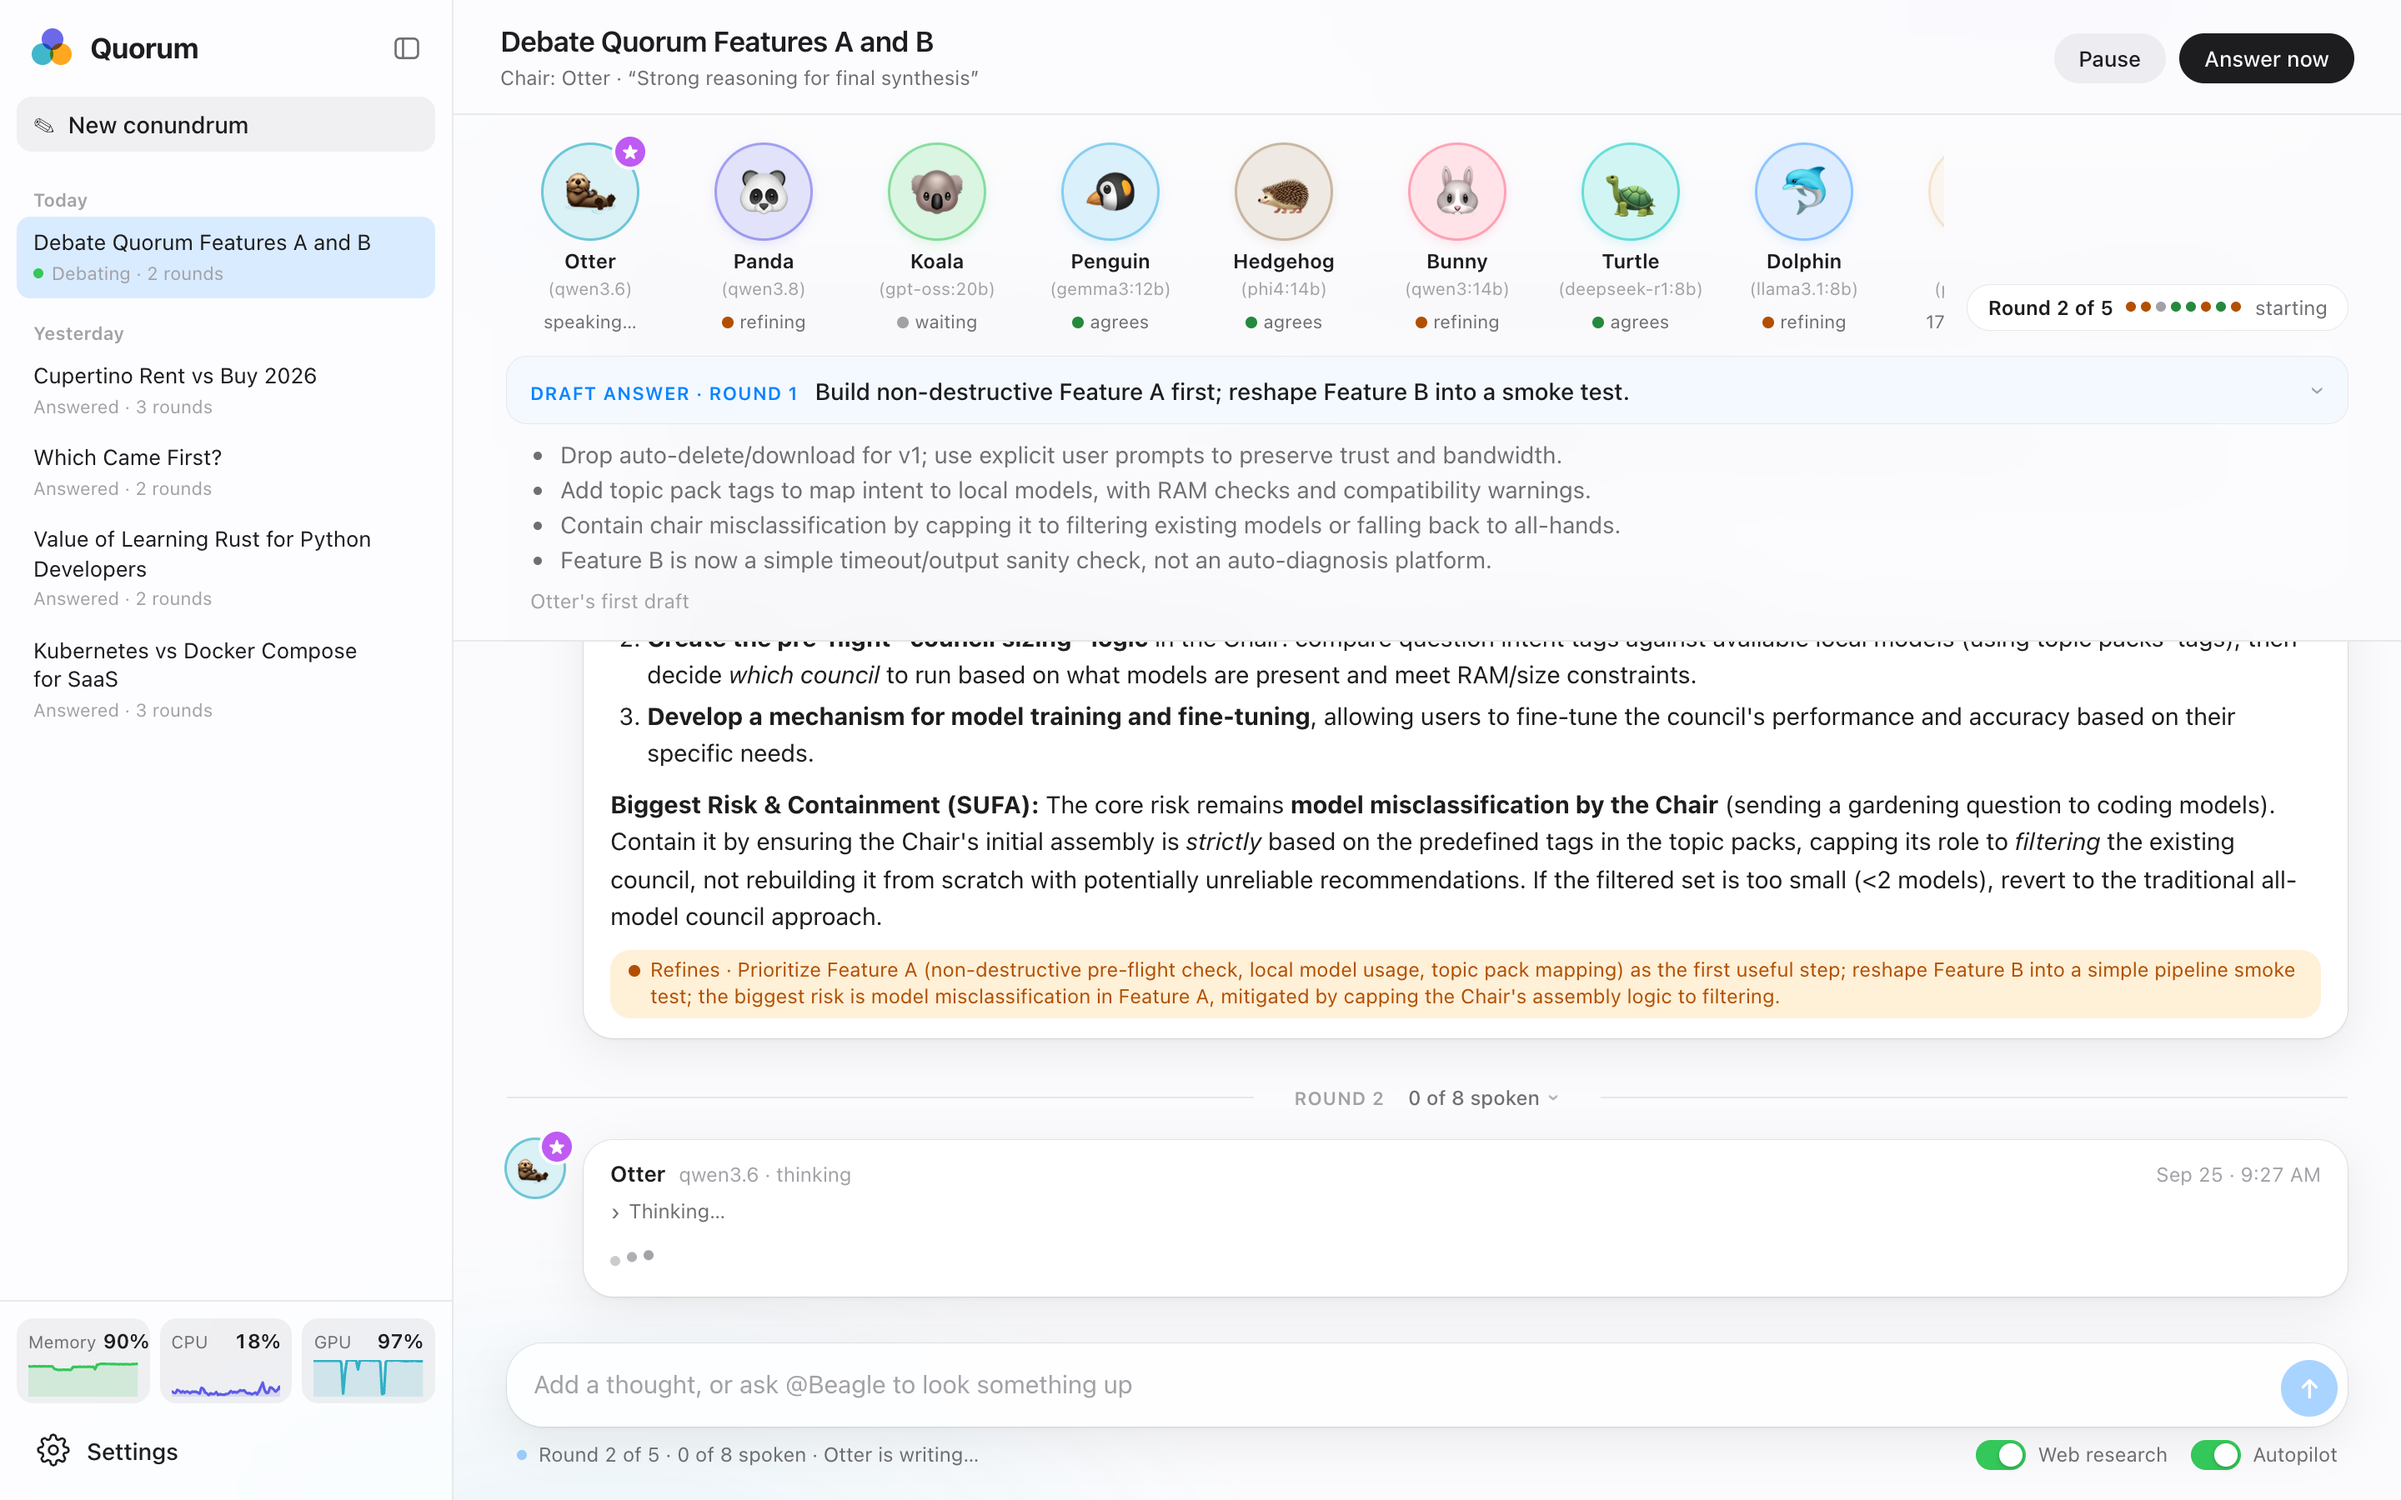
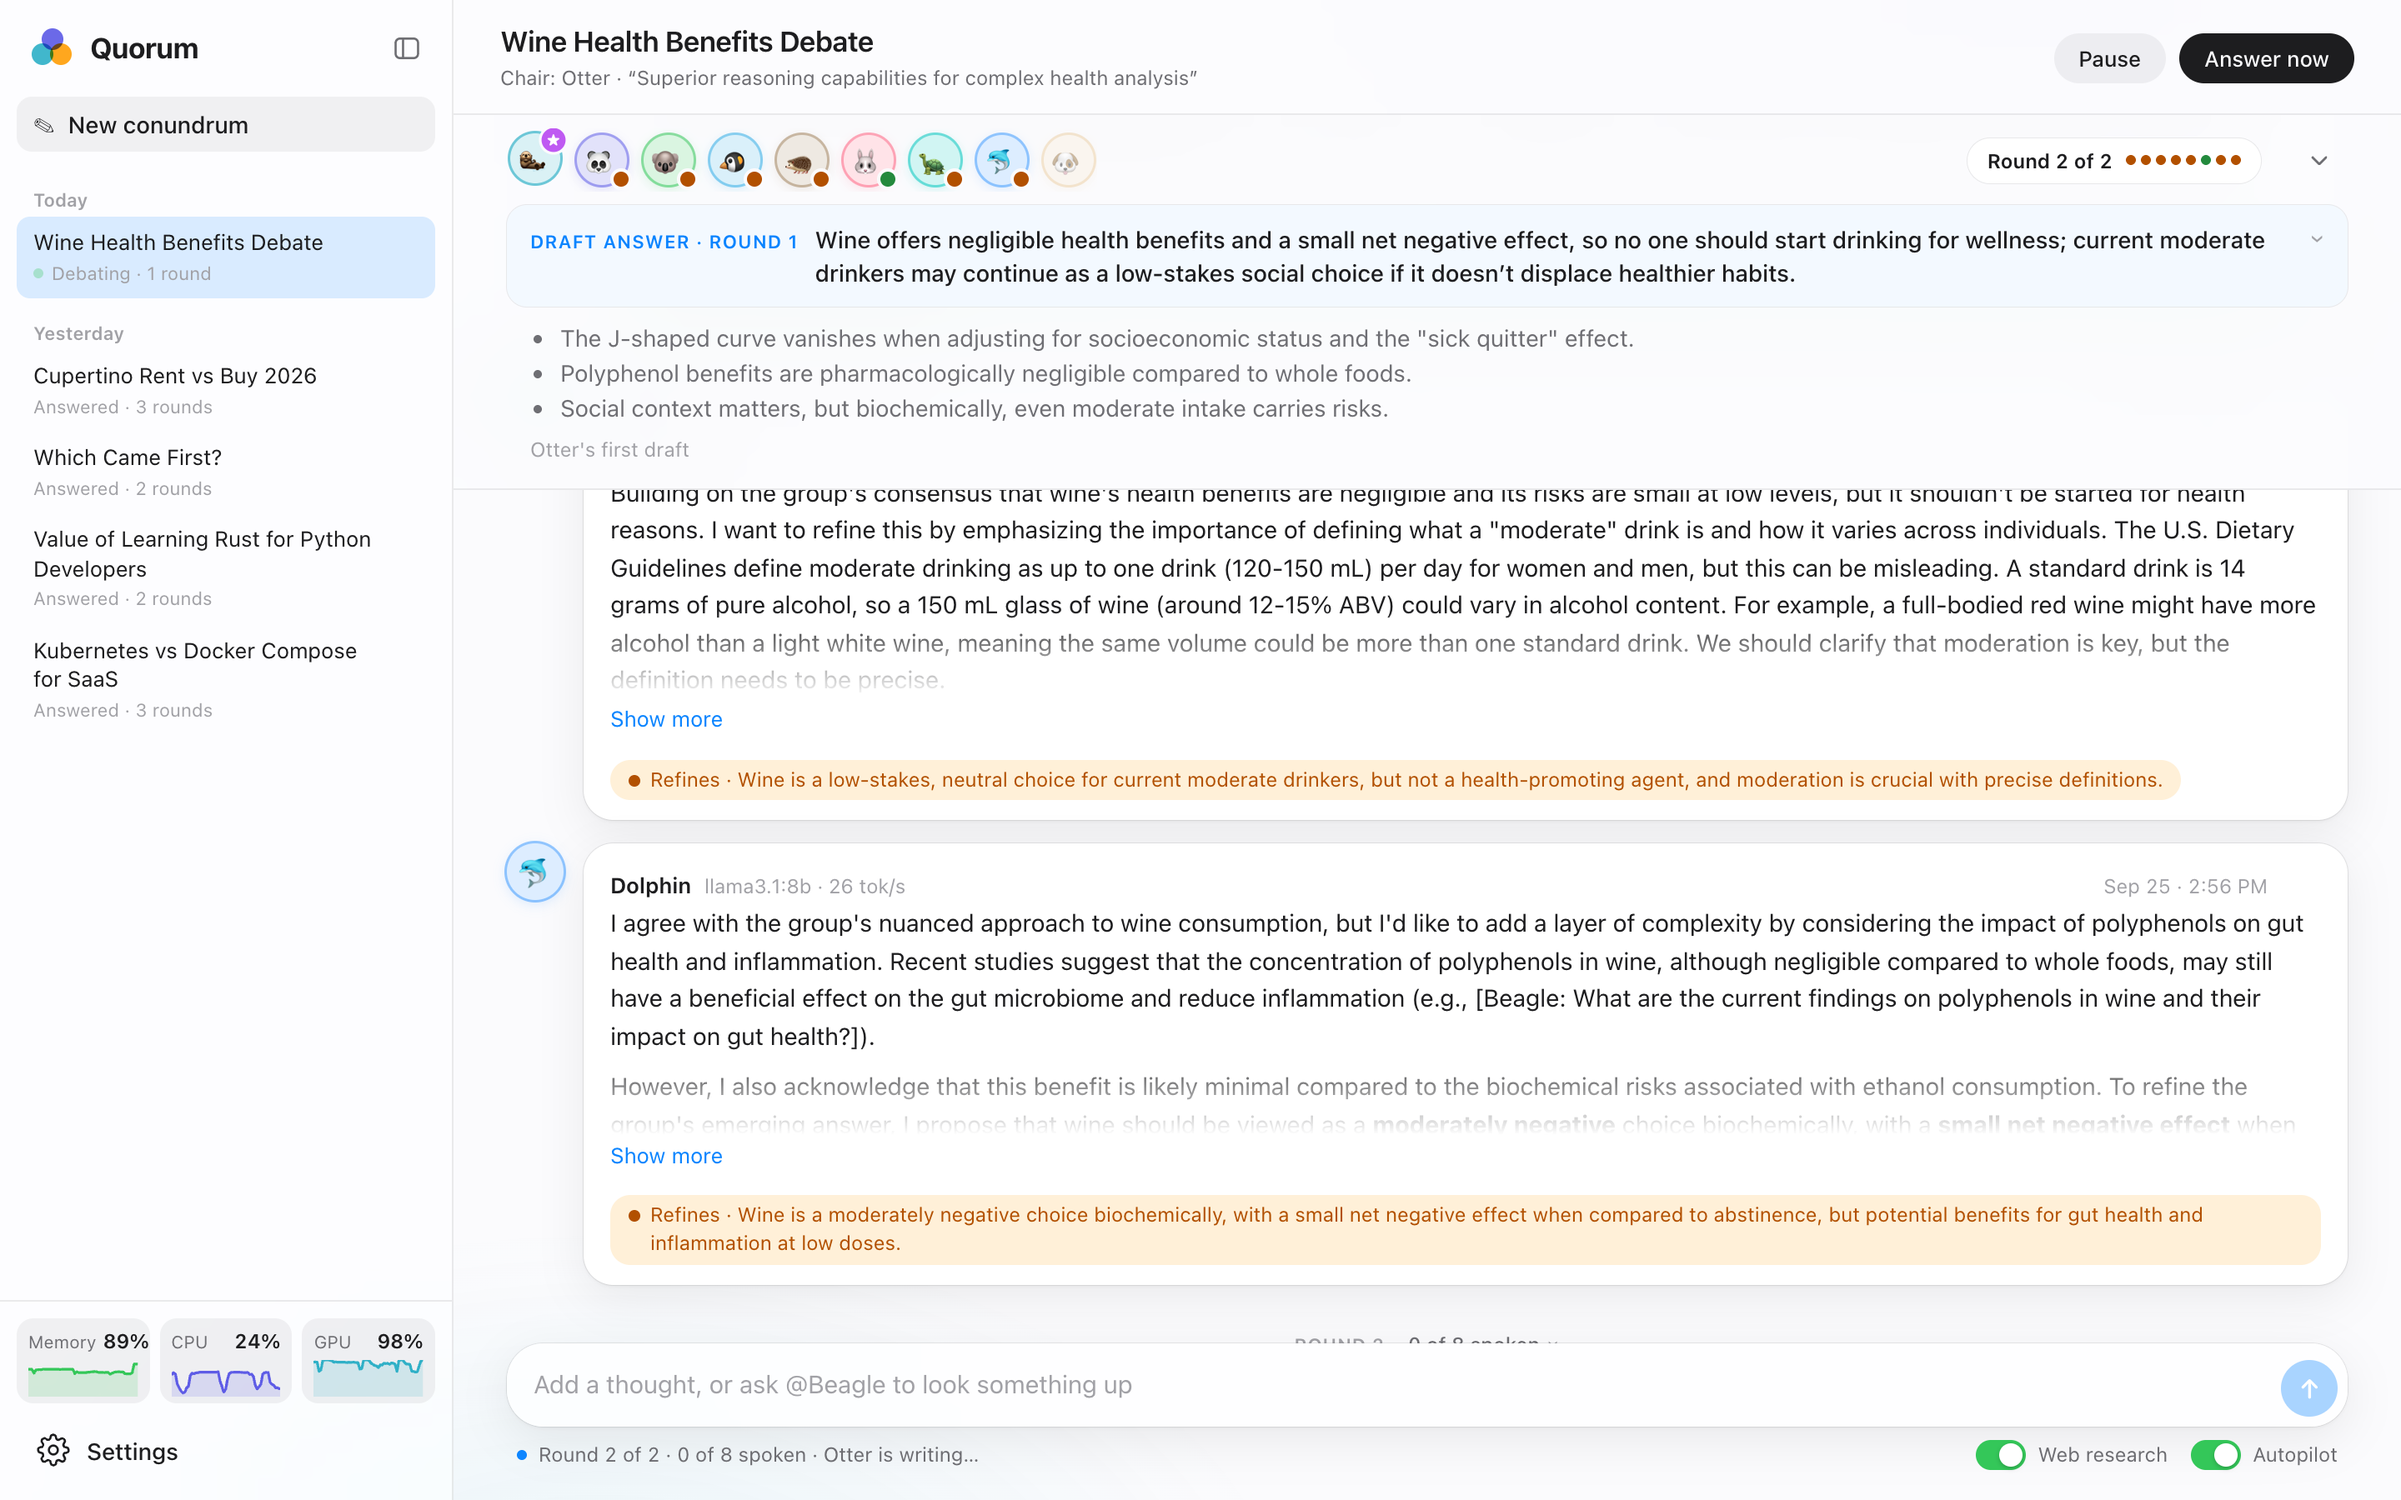
Compact stage, tighter phone header, and folded long messages
- The stage is now one slim row of avatars with stance dots (hover for name, model and
  status); a chevron opens the full view, and the choice is remembered.
- On phones the title and Pause / Answer now share one row.
- Long agent turns fold to their first lines with Show more; the stance and position
  stay visible so a round can be skimmed.

diff --git a/frontend/src/components/DebateView.jsx b/frontend/src/components/DebateView.jsx
@@ -111,12 +111,52 @@ function Thread({ items, seatsById, debate, onIntake }) {
   return out
 }
 
+// The stage's compact view is a per-viewer preference; storage can be unavailable (private windows)
+function useCompactStage() {
+  const [compact, setCompact] = useState(() => {
+    try { return localStorage.getItem('quorum.stage') !== 'full' } catch { return true }
+  })
+  const toggle = () => setCompact((c) => {
+    try { localStorage.setItem('quorum.stage', c ? 'full' : 'compact') } catch { /* keep it for this visit */ }
+    return !c
+  })
+  return [compact, toggle]
+}
+
+function MiniSeats({ seats, stances, speakingSeatIds, debate, beagleBusy, searches }) {
+  return (
+    <div className="mini-seats">
+      {seats.map((seat, i) => {
+        const picking = i === 0 && debate.chair_mode === 'auto' && !debate.chair_handle && debate.status === 'running'
+        const speaking = speakingSeatIds.has(seat.id) || picking
+        const st = stances[i]
+        const status = picking ? 'choosing the chair' : speaking ? 'speaking' : st ? STANCE_LABEL[st] : 'waiting'
+        return (
+          <span className={`mini-seat ${speaking ? 'on' : ''}`} key={seat.id} title={`${seat.handle} · ${modelShort(seat.model)} · ${status}`}>
+            <Orb handle={seat.handle} speaking={speaking} chair={seat.handle === debate.chair_handle} />
+            {st && !speaking && <i className={`mini-st dot ${st.toLowerCase()}`} aria-hidden="true" />}
+          </span>
+        )
+      })}
+      {debate.research_enabled && (
+        <span className={`mini-seat ${beagleBusy ? 'on' : ''}`} title={`${RESEARCHER} · ${modelShort(debate.researcher_model)} · ${beagleBusy ? 'searching' : `${searches} searches`}`}>
+          <Orb handle={RESEARCHER} speaking={beagleBusy} dim={!beagleBusy} />
+        </span>
+      )}
+    </div>
+  )
+}
+
 function Stage({ state, speakingSeatIds, beagleBusy, searches }) {
   const { debate, seats, messages } = state
   const stances = latestStances(messages, debate.topic, seats)
+  const [compact, toggleCompact] = useCompactStage()
   return (
     <div className="stage-wrap">
-    <div className="stage">
+    <div className={`stage ${compact ? 'compact' : ''}`}>
+      {compact ? (
+        <MiniSeats seats={seats} stances={stances} speakingSeatIds={speakingSeatIds} debate={debate} beagleBusy={beagleBusy} searches={searches} />
+      ) : (
       <div className="seats">
         {seats.map((seat, i) => {
           // In automatic mode the first (largest) member picks the chair before round 1
@@ -143,6 +183,7 @@ function Stage({ state, speakingSeatIds, beagleBusy, searches }) {
           </div>
         )}
       </div>
+      )}
       {debate.round > 0 && (() => {
         const done = messages.filter((m) => m.topic === debate.topic && m.round === debate.round && m.author_kind === 'seat' && m.status === 'done')
         const dissent = done.filter((m) => m.stance === 'DISAGREE').map((m) => seats.find((s) => s.id === m.seat_id)?.handle)
@@ -159,6 +200,12 @@ function Stage({ state, speakingSeatIds, beagleBusy, searches }) {
           </button>
         )
       })()}
+      <button className="icon-btn stage-toggle" onClick={toggleCompact} aria-expanded={!compact}
+        aria-label={compact ? 'Show agent details' : 'Compact view'} title={compact ? 'Show agent details' : 'Compact view'}>
+        <svg width="16" height="16" viewBox="0 0 20 20" fill="none" stroke="currentColor" strokeWidth="1.8" aria-hidden="true">
+          <path d={compact ? 'm5 8 5 5 5-5' : 'm5 12 5-5 5 5'} strokeLinecap="round" strokeLinejoin="round" />
+        </svg>
+      </button>
     </div>
       <LivingAnswer drafts={(state.drafts || []).filter((d) => d.topic === debate.topic)} chair={debate.chair_handle} />
     </div>

diff --git a/frontend/src/index.css b/frontend/src/index.css
@@ -533,9 +533,10 @@ details.disclose pre { white-space: pre-wrap; font-family: var(--font); backgrou
   .ask { padding-left: 16px; border-radius: 20px; }
   .ask textarea { font-size: 16px; }
   .suggestions { margin-top: 20px; }
-  .topbar { padding: 10px 14px; flex-wrap: wrap; }
-  .topbar .q-title h2 { font-size: 15px; white-space: normal; display: -webkit-box; -webkit-line-clamp: 2; -webkit-box-orient: vertical; }
-  .topbar .actions { width: 100%; justify-content: flex-end; }
+  .topbar { padding: 8px 12px; gap: 10px; }
+  .topbar .q-title h2 { font-size: 15px; }
+  .topbar .actions { gap: 6px; }
+  .topbar .actions .btn { padding: 6px 11px; font-size: 13px; }
   .stage { padding: 10px 12px 4px; flex-direction: column; align-items: stretch; gap: 6px; }
   .seat { width: 74px; }
   .orb.lg { width: 46px; height: 46px; font-size: 25px; }
@@ -718,3 +719,29 @@ details.disclose pre { white-space: pre-wrap; font-family: var(--font); backgrou
 .pack-suggest { margin-top: 8px; font: 13px/1.5 var(--font); color: var(--text-2); text-align: center; max-width: 560px; animation: fade 0.2s ease; }
 .pack-suggest .progress-line { display: inline-block; vertical-align: middle; margin-left: 8px; }
 .pack-suggest b { color: var(--text); font-weight: 600; }
+
+/* Compact stage: one slim row of avatars (default); the full view shows names, models and status */
+.stage.compact { align-items: center; padding-top: 8px; padding-bottom: 8px; }
+.mini-seats { display: flex; align-items: center; gap: 10px; overflow-x: auto; padding: 4px 2px; scrollbar-width: none; min-width: 0; }
+.mini-seats::-webkit-scrollbar { display: none; }
+.mini-seat { position: relative; flex: none; display: inline-grid; transition: transform 0.2s var(--ease); }
+.mini-seat .orb { width: 30px; height: 30px; font-size: 16px; }
+.mini-seat .orb .crown { transform: scale(0.8); }
+.mini-seat.on { transform: translateY(-1px); }
+.mini-st { position: absolute; right: -1px; bottom: -1px; width: 9px; height: 9px; box-shadow: 0 0 0 2px var(--window); }
+.stage.compact .consensus-pill { margin-bottom: 0; }
+.stage-toggle { flex: none; align-self: center; margin-left: 4px; }
+.stage:not(.compact) .stage-toggle { align-self: flex-start; margin-top: 6px; }
+@media (max-width: 720px) {
+  .stage.compact { flex-direction: row; align-items: center; gap: 8px; padding: 6px 12px; }
+  .stage.compact .consensus-pill { margin: 0 0 0 auto; padding: 5px 10px; }
+  .stage.compact .consensus-pill .cp-dots, .stage.compact .consensus-pill > span:not(.cp-round):not(.cp-dots) { display: none; }
+  .mini-seat .orb { width: 26px; height: 26px; font-size: 14px; }
+  .mini-seats { gap: 7px; }
+}
+
+/* Long agent turns fold to their first lines */
+.folding:not(.open) { max-height: 9.5em; overflow: hidden; position: relative;
+  -webkit-mask-image: linear-gradient(to bottom, #000 60%, transparent); mask-image: linear-gradient(to bottom, #000 60%, transparent); }
+.fold-btn { display: block; margin: 2px 0 6px; font-size: 13px; }
+@media print { .folding:not(.open) { max-height: none; -webkit-mask-image: none; mask-image: none; } .fold-btn { display: none; } }

diff --git a/frontend/src/components/Message.jsx b/frontend/src/components/Message.jsx
@@ -95,6 +95,22 @@ function Thinking({ text, label = 'Thinking', live }) {
   )
 }
 
+// Long finished turns fold to their first lines so the debate stays scannable; the stance line below stays visible
+const FOLD_WORDS = 110
+function Folding({ text, fold, children }) {
+  const [open, setOpen] = useState(false)
+  const long = fold && text.split(/\s+/).length > FOLD_WORDS
+  if (!long) return children
+  return (
+    <>
+      <div className={`folding ${open ? 'open' : ''}`}>{children}</div>
+      <button className="linkish fold-btn" onClick={() => setOpen(!open)} aria-expanded={open}>
+        {open ? 'Show less' : 'Show more'}
+      </button>
+    </>
+  )
+}
+
 export function AgentMessage({ msg, seat, isChair }) {
   const streaming = msg.status === 'streaming'
   const body = visibleBody(msg)
@@ -108,7 +124,7 @@ export function AgentMessage({ msg, seat, isChair }) {
       <div className="bubble">
         <div className="who">{seat?.handle}<span>{meta.filter(Boolean).join(' · ')}</span><span className="ts">{formatTime(msg.created_at)}</span>{!streaming && <CopyButton text={body} />}</div>
         <Thinking text={msg.thinking} live={streaming && !body} />
-        {body ? <Markdown>{body}</Markdown>
+        {body ? <Folding text={body} fold={!streaming}><Markdown>{body}</Markdown></Folding>
           : streaming ? <Typing />
           : msg.status === 'stopped' ? <span className="faint">Stopped before replying</span> : null}
         {msg.status === 'done' && <StanceTag stance={msg.stance} position={msg.position_line} parsed={msg.stance_parsed} />}

diff --git a/docs/FEATURES.md b/docs/FEATURES.md
@@ -93,11 +93,15 @@ each ending with a stance: **agrees**, **refines** or **disagrees**, plus its po
 - **The living answer.** After every round, the chair rewrites a short draft answer pinned at the top. Words that
   changed since the last draft are highlighted, the note says what changed and whose argument changed it, and you can
   step back through earlier drafts. The wait becomes watching the answer get better.
-- **The stage.** Every agent's avatar, who's speaking, and where each one stands.
+- **The stage.** A slim row of avatars: the speaker pulses, and a colored dot shows where each agent stands (hover
+  for its name, model and status). The chevron opens the full view with names, models and status, and Quorum
+  remembers your choice. The consensus pill on the right jumps to the current round.
 - **A live status line** by the message box says what's happening in plain words ("Round 2 of 3 · 5 of 8 spoken ·
   Hedgehog is writing…"), so the quiet gaps between turns never look frozen.
 - **Round recaps.** Each round's divider shows how the council stands after it ("3 agree · 4 refine · Hedgehog
   dissents"). Click it to fold the round away.
+- **Scannable turns.** Long messages fold to their first lines with **Show more**; each agent's stance and
+  one-line position stay visible, so you can skim a whole round quickly.
 - **Thinking.** Reasoning models think before they speak; open **Thinking** on any message to read it. It's never
   shown to the other agents.
 

diff --git a/CHANGELOG.md b/CHANGELOG.md
@@ -9,6 +9,9 @@
 - The living answer: after every round the chair updates a draft answer pinned at the top, with changed words
   highlighted, what changed and whose argument changed it, and earlier drafts one click away
 - Why?: select any part of the answer to see which agents argued for it, who pushed back, and the sources behind it
+- A compact stage (the default): one slim row of avatars with stance dots; the chevron shows the full view with
+  names, models and status. On phones the header also takes less room
+- Long agent messages fold to their first lines (Show more), keeping each stance and position visible
 - Round recaps (stances, who dissents, fold a round away) and a plain-words live status line by the message box
 - Councils built for the pack: a pack can prefer certain models (Review code prefers coding models); the council
   becomes those specialists plus the strongest generalists, and Quorum suggests a model to add, checked against
